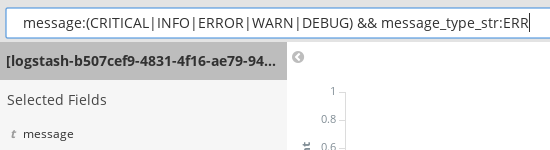
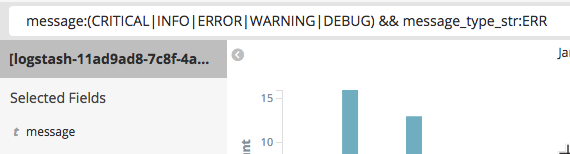
WARNING is the actual string we need to use (WARN was from an older version of the sample)

diff --git a/application-log-analysis.md b/application-log-analysis.md
@@ -70,7 +70,7 @@ bx cf logs your-app-name --recent
 ```
 2. The second method is to use the [IBM Cloud console](https://console.bluemix.net). In the overview, navigate to your app, click on its entry to open the details and then go to **Logs**. Current logs are shown with the most recent at the bottom. On the upper right you can search for an entry or filter by log type. Selecting **Application (APP)**
 ![](images/solution12/Dashboard_LogsFilter.png)
-3. The Log Analysis service offers access to the logs. In contrast to the first two, more historial logs from all the apps in a space are available. The logs can be accessed, searched and visualized using a browser-based UI (Kibana dashboard). Using the IBM Cloud dashboard, navigate to **App Name > Logs > Advanced view **. [For details see this section in the Log Analysis documentation](https://console.bluemix.net/docs/services/CloudLogAnalysis/kibana/analyzing_logs_Kibana.html#launch_Kibana).   
+3. The Log Analysis service offers access to the logs. In contrast to the first two, more historial logs from all the apps in a space are available. The logs can be accessed, searched and visualized using a browser-based UI (Kibana dashboard). Using the IBM Cloud dashboard, navigate to **App Name > Logs > View in Kibana** view. [For details see this section in the Log Analysis documentation](https://console.bluemix.net/docs/services/CloudLogAnalysis/kibana/analyzing_logs_Kibana.html#launch_Kibana).   
 
 ## Search and Analyze Logs
 
@@ -84,7 +84,7 @@ The Log Analysis / Kibana dashboard, by default shows all available log entries 
 4. Next to the configuration of the interval is the auto-refresh setting. By default it is switched off, but you can change it.  
 5. Below the configuration is the search field. Here you can [enter and define search queries](https://console.bluemix.net/docs/services/CloudLogAnalysis/kibana/define_search.html#define_search). To filter for all logs reported as app errors and containing one of the defined log levels, enter the following:   
 ```
-message:(CRITICAL|INFO|ERROR|WARN|DEBUG) && message_type_str:ERR
+message:(CRITICAL|INFO|ERROR|WARNING|DEBUG) && message_type_str:ERR
 ```   
 It should look like shown below. The displayed log entries are now filtered based on the search criteria.   
 ![](images/solution12/SearchForMessagesERR.png)   
@@ -98,11 +98,12 @@ Now that you have a query defined, in this section you will use it as foundation
 1. Click on **Visualize** in the left navigation bar.
 2. In the list of offered visualizations Locate **Pie chart** and click on it.
 3. Select the query **ERRlogs** that you saved earlier.
-4. On the next screen, under **Select buckets type**, select **Split Slices**, then for **Aggregation** choose **Filters**. Add 5 filters having the values of **CRITICAL**, **ERROR**, **WARN\*** (with asteriks as wildcard), **INFO** and **DEBUG** as shown here:   
+4. On the next screen, under **Select buckets type**, select **Split Slices**, then for **Aggregation** choose **Filters**. Add 5 filters having the values of **CRITICAL**, **ERROR**, **WARNING**, **INFO** and **DEBUG** as shown here:   
 ![](images/solution12/VisualizationFilters.png)   
 6. Click on **Options** (right to **Data**) and activate **Donut** as view option. Finally, click on the **play** icon to apply all changes to the chart. Now you should see a **Donut Pie Chart** similar to this one:   
 ![](images/solution12/Donut.png)   
-7. Save the visualization as **DonutERR**.
+7. Adjust the displayed interval by navigating to the upper right and clicking on **Last 15 minutes**. Adjust the value to **Last 24 hours**.
+8. Save the visualization as **DonutERR**.
 
 #### Metric
 Next, create another visualization for **Metric**.
@@ -115,7 +116,7 @@ Next, create another visualization for **Metric**.
 Once you have added visualizations, they can be used to compose a dashboard. A dashboard is used to display all important metrics and to help indicate the health of your apps and services.
 1. Click on **Dashboard** in the left navigation panel, then on **Add** to start placing existing visualizations onto the empty dashboard.
 2. Add the log count on the left and the donut chart on the right. Change the size of each component and to move them as desired.
-3. Click on the arrow in the lower left corner of a component to view changes to a table layout and additional information about the underlying request, response and execution statistics are offered. 
+3. Click on the arrow in the lower left corner of a component to view changes to a table layout and additional information about the underlying request, response and execution statistics are offered.
 ![](images/solution12/DashboardTable.png)   
 4. Save the dashboard for future use.
 
